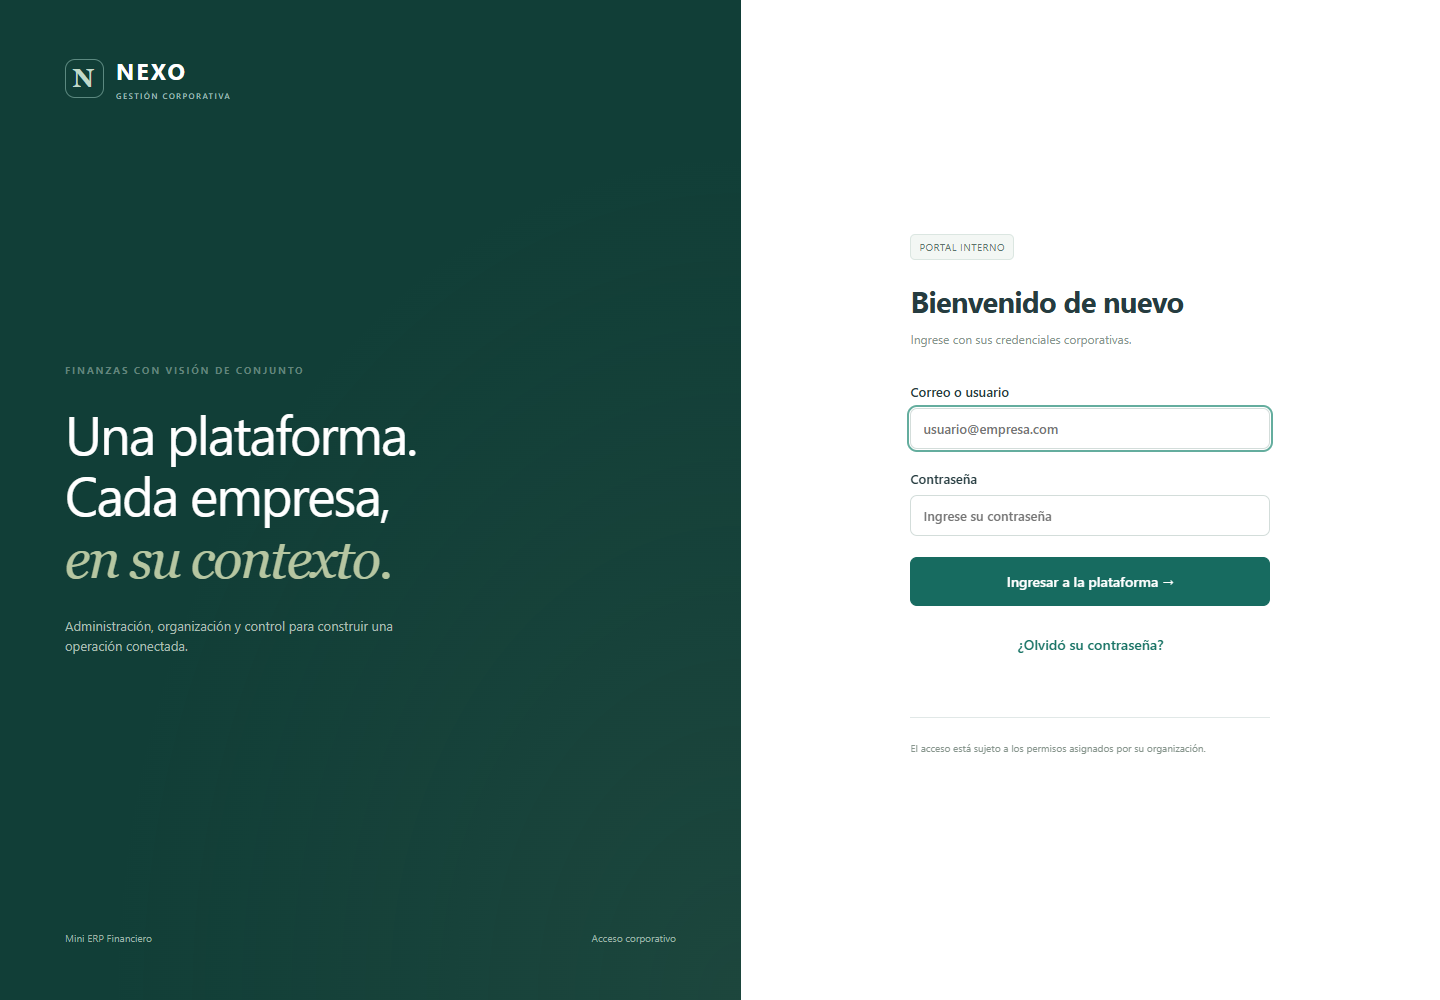
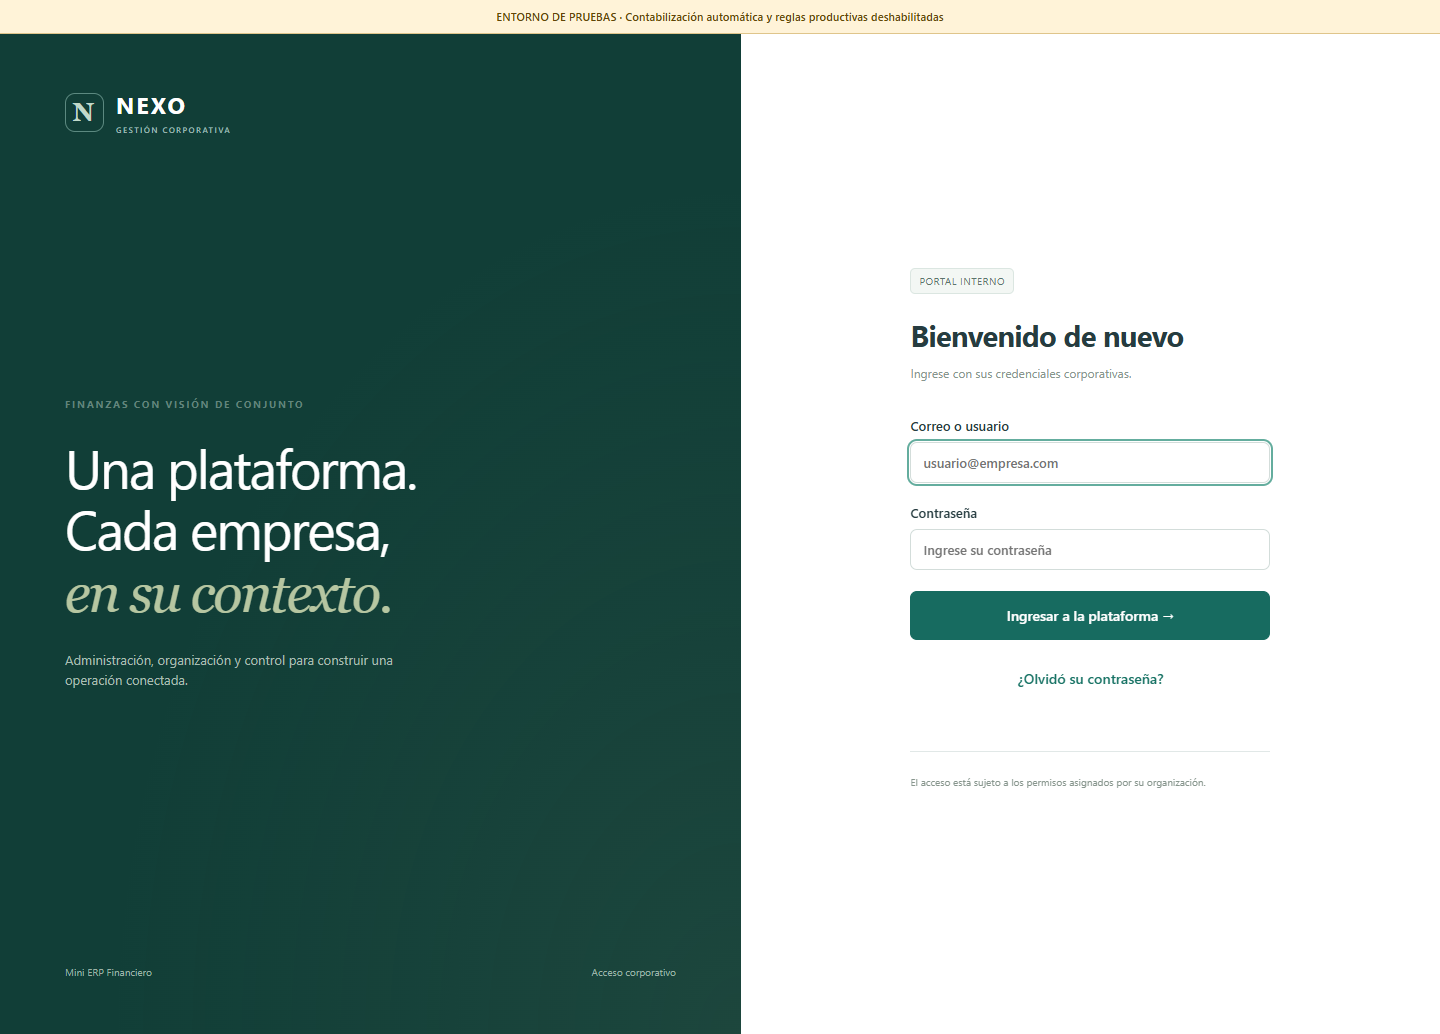
feat: complete phase 8b technical demo v2.1

diff --git a/tests/app.test.ts b/tests/app.test.ts
@@ -177,6 +177,27 @@ test('administrator sets a temporary password without sending it to database RPC
   assert.equal((await request(app).put(`/api/users/${user}/temporary-password`).auth('valid',{type:'bearer'}).send({password:'Temporary-2026!'})).status,403);
   assert.equal((await request(app).put(`/api/users/${other}/temporary-password`).auth('valid',{type:'bearer'}).send({password:'short'})).status,400);
 });
+test('user creation requires and applies one temporary password after durable provisioning',async()=>{
+  const {deps,calls}=fixture({grants:['user.create']});
+  deps.repository=()=>({
+    async profile(){return profile;},
+    async rpc<T>(name:string,args:Record<string,unknown>):Promise<T>{
+      calls.push({name,args});
+      if(name==='has_permission')return (String(args.permission_code)==='user.create') as T;
+      if(name==='begin_user_provisioning')return {request_id:other,user_id:other,status:'pending'} as T;
+      if(name==='finish_user_provisioning')return {...profile,id:other,email:'new@example.test',username:'newuser'} as T;
+      return {} as T;
+    },
+    async list(){return {data:[],count:0};},
+  });
+  const app=createApp(config,deps),payload={email:'new@example.test',username:'newuser',full_name:'New User',status:'active',temporary_password:'Temporary-2026!'};
+  const response=await request(app).post('/api/users').auth('valid',{type:'bearer'}).set('Idempotency-Key',company).send(payload);
+  assert.equal(response.status,201);
+  assert.equal(JSON.stringify(calls.find(c=>c.name==='begin_user_provisioning')?.args).includes('Temporary-2026!'),false);
+  assert.deepEqual(calls.find(c=>c.name==='admin_require_temporary_password')?.args,{target_user:other});
+  assert.deepEqual(calls.find(c=>c.name==='auth_password_update')?.args,{id:other});
+  assert.equal((await request(app).post('/api/users').auth('valid',{type:'bearer'}).set('Idempotency-Key',company).send({...payload,temporary_password:undefined})).status,400);
+});
 test('temporary password blocks business routes and clears only after authenticated password change',async()=>{
   const {app,calls}=fixture({forcedPassword:true,grants:['user.view']});
   const blocked=await request(app).get('/api/users').auth('valid',{type:'bearer'});

diff --git a/tests/e2e/interface.spec.ts b/tests/e2e/interface.spec.ts
@@ -77,6 +77,11 @@ async function fixture(page: Page, blocked = false, forced = false) {
       status = 204;
       body = null;
     }
+    else if (p === "/api/users" && req.method() === "POST") {
+      writes.push(req.postDataJSON());
+      status = 201;
+      body = {id:u,...req.postDataJSON()};
+    }
     else if (p === "/api/cost-centers/import") {
       writes.push(req.postDataJSON());
       body = {
@@ -205,6 +210,21 @@ test("provisional password is required once and the application resumes after sa
   await page.getByLabel(/Confirmar nueva contraseña/).fill('Personal-password-2026!');
   await page.getByRole('button',{name:'Guardar y continuar'}).click();
   await expect(page.getByRole('heading',{name:'Su espacio de gestión'})).toBeVisible();
+});
+test("new user form requires a confirmed temporary password and sends only the credential once",async({page})=>{
+  const writes=await fixture(page);
+  await login(page);
+  await page.getByRole('button',{name:'Usuarios',exact:true}).click();
+  await page.getByRole('button',{name:'Nuevo usuario'}).click();
+  await page.getByLabel('Nombre completo *').fill('Richard Synthetic');
+  await page.getByLabel('Usuario *').fill('rsaavedra_test');
+  await page.getByLabel('Correo *').fill('richard.synthetic@example.test');
+  await page.getByLabel(/Contraseña provisional · mínimo 12 caracteres/).fill('Temporary-2026!');
+  await page.getByLabel('Confirmar contraseña provisional *').fill('Temporary-2026!');
+  await page.getByRole('button',{name:'Guardar cambios'}).click();
+  await expect.poll(()=>writes.length).toBe(1);
+  expect(writes[0].temporary_password).toBe('Temporary-2026!');
+  expect(writes[0].temporary_password_confirmation).toBeUndefined();
 });
 test("CECO subcenter form, hierarchy, import preview and explicit confirmation", async ({
   page,

diff --git a/src/client/components.tsx b/src/client/components.tsx
@@ -201,10 +201,11 @@ export function Form({
               />
             ) : (
               <input
-                autoComplete="off"
+                autoComplete={f.type === "password" ? "new-password" : "off"}
                 required={f.required}
                 type={f.type || "text"}
                 maxLength={f.key === "description" ? 2000 : 254}
+                minLength={f.type === "password" ? 12 : undefined}
                 min={f.type === "number" ? 0 : undefined}
                 value={values[f.key] ?? ""}
                 onChange={(e) =>
@@ -432,6 +433,7 @@ export function EntityPage({
   const fields = config.fields.filter(
     (f) =>
       !(edit?.id && f.key === "email") &&
+      !(edit?.id && ["temporary_password", "temporary_password_confirmation"].includes(f.key)) &&
       !(edit?.is_system && f.key === "code") &&
       (!edit?.id ||
         f.key !== "active" ||
@@ -685,6 +687,11 @@ export function EntityPage({
               company={company}
               close={() => setEdit(null)}
               onSave={async (data) => {
+                if (config.permission === "user" && !edit.id) {
+                  if (data.temporary_password !== data.temporary_password_confirmation)
+                    throw new Error("Las contraseñas provisionales no coinciden.");
+                  delete data.temporary_password_confirmation;
+                }
                 if (edit.id) {
                   for (const k of Object.keys(data))
                     if (data[k] === edit[k]) delete data[k];

diff --git a/tests/auth-admin.test.ts b/tests/auth-admin.test.ts
@@ -1,0 +1,18 @@
+import { test } from 'node:test';
+import assert from 'node:assert/strict';
+import { createPrivilegedAuth } from '../src/server/integrations/supabase/auth-admin.js';
+
+test('admin temporary password confirms the provisioned Auth identity in the same mutation',async()=>{
+  const original=globalThis.fetch;
+  let body:Record<string,unknown>={};
+  globalThis.fetch=async(_input,init)=>{
+    body=JSON.parse(String(init?.body || '{}'));
+    return new Response(JSON.stringify({id:'00000000-0000-4000-8000-000000000002',email:'new@example.test'}),{status:200,headers:{'Content-Type':'application/json'}});
+  };
+  try {
+    const auth=createPrivilegedAuth({SUPABASE_URL:'https://fixture.supabase.co',SUPABASE_SECRET_KEY:'sb_secret_fixture'});
+    await auth.updatePassword('00000000-0000-4000-8000-000000000002','Temporary-2026!');
+    assert.equal(body.email_confirm,true);
+    assert.equal(body.password,'Temporary-2026!');
+  } finally { globalThis.fetch=original; }
+});

diff --git a/src/server/controllers/admin.ts b/src/server/controllers/admin.ts
@@ -34,7 +34,12 @@ export const saveEntity = (kind: keyof typeof v.entitySchemas): RequestHandler =
 };
 export const createUser = (privileged: PrivilegedAuth): RequestHandler => async (req, res) => {
   const key = v.uuid.parse(req.header('Idempotency-Key'));
-  res.status(201).json(await provisionUser(getActor(req), privileged, key, v.profileCreate.parse(req.body)));
+  const actor=getActor(req);
+  const {temporary_password,...profile}=v.userCreate.parse(req.body);
+  const created=await provisionUser(actor, privileged, key, profile);
+  await actor.db.rpc('admin_require_temporary_password',{target_user:created.id});
+  await privileged.updatePassword(created.id,temporary_password);
+  res.status(201).json(created);
 };
 export const updateUser: RequestHandler = async (req, res) => {
   res.json(await getActor(req).db.rpc('admin_update_profile', { target_user: v.uuid.parse(req.params.id), payload: v.profileUpdate.parse(req.body) }));

diff --git a/src/client/catalog.ts b/src/client/catalog.ts
@@ -182,6 +182,8 @@ export const catalogs: Record<string, Catalog> = {
       { key: "full_name", label: "Nombre completo", required: true },
       { key: "username", label: "Usuario", required: true },
       { key: "email", label: "Correo", type: "email", required: true },
+      { key: "temporary_password", label: "Contraseña provisional · mínimo 12 caracteres", type: "password", required: true },
+      { key: "temporary_password_confirmation", label: "Confirmar contraseña provisional", type: "password", required: true },
       { key: "area_id", label: "Área", source: "areas" },
       { key: "position_id", label: "Cargo", source: "positions" },
       { key: "manager_id", label: "Jefe directo", source: "users" },

diff --git a/src/server/integrations/supabase/auth-admin.ts b/src/server/integrations/supabase/auth-admin.ts
@@ -42,7 +42,9 @@ export function createPrivilegedAuth(config: Pick<Config, 'SUPABASE_URL' | 'SUPA
       if (error) throw new HttpError(409, 'AUTH_EMAIL_UPDATE_FAILED');
     },
     async updatePassword(id, password) {
-      const { error } = await client.auth.admin.updateUserById(id, { password });
+      // Assigning the initial credential is the controlled activation step for
+      // identities provisioned without relying on SMTP delivery.
+      const { error } = await client.auth.admin.updateUserById(id, { password, email_confirm: true });
       if (error) throw new HttpError(503, 'AUTH_PASSWORD_UPDATE_FAILED');
     },
     async logout(token) {

diff --git a/src/server/validators/index.ts b/src/server/validators/index.ts
@@ -38,4 +38,5 @@ export const refresh = z.object({ refresh_token: z.string().min(1).max(8192) }).
 export const email = z.object({ email: z.email().max(254) }).strict();
 export const password = z.object({ password: z.string().min(12).max(128) }).strict();
 export const temporaryPassword = z.object({ password: z.string().min(12).max(128) }).strict();
+export const userCreate = profileCreate.extend({ temporary_password: z.string().min(12).max(128) }).strict();
 export const verifyOtp = z.object({ token_hash: z.string().min(1).max(1024), type: z.enum(['invite', 'recovery']) }).strict();
